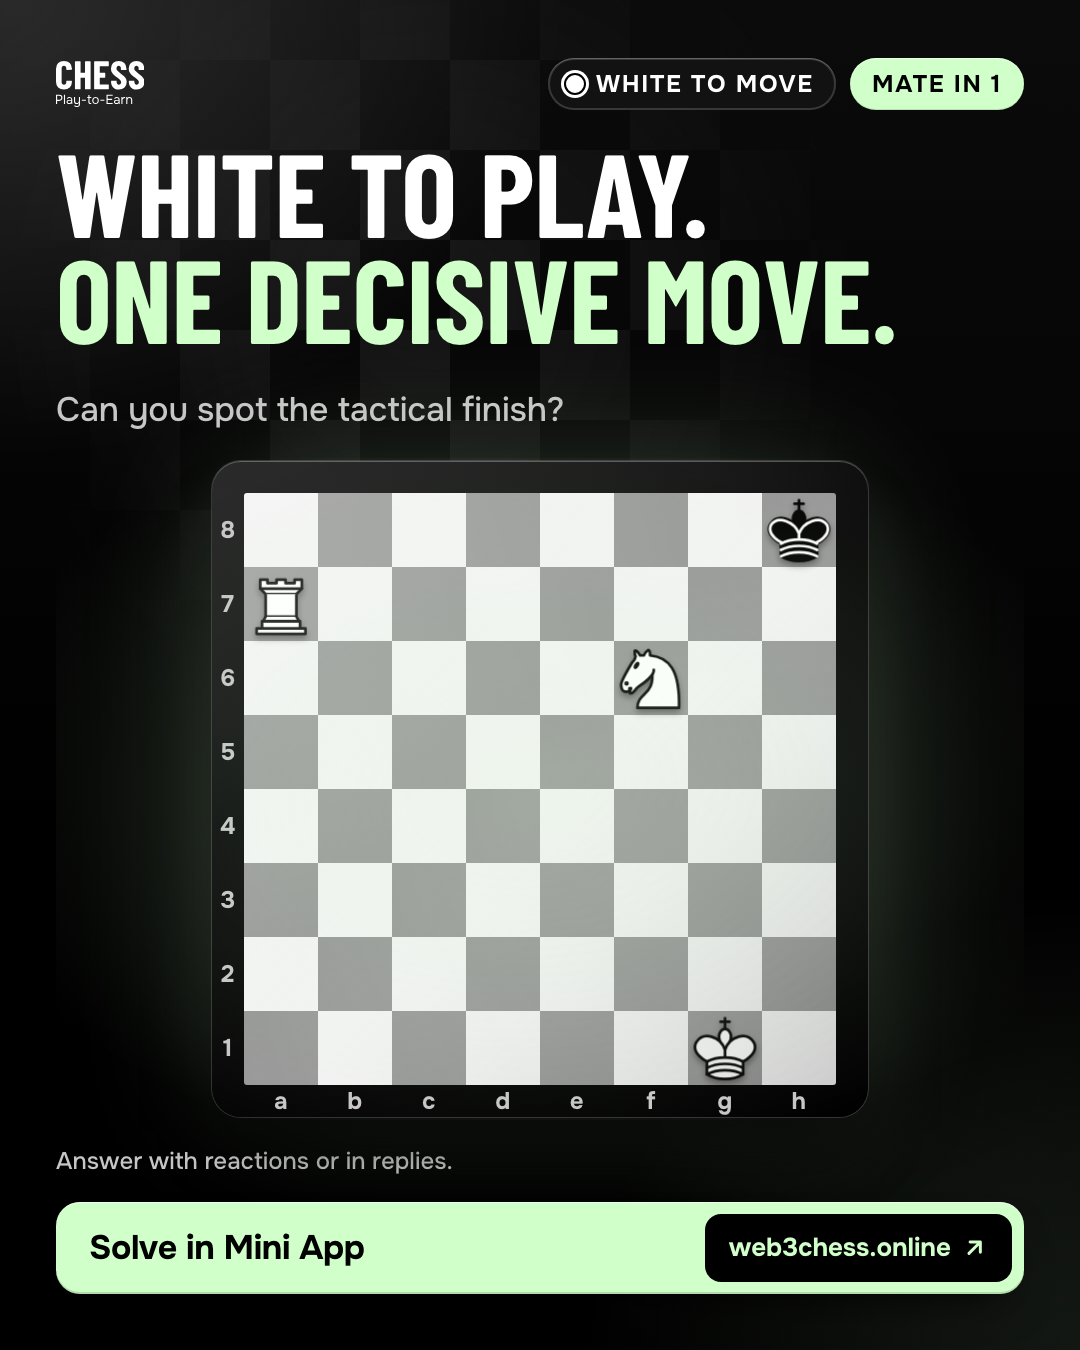
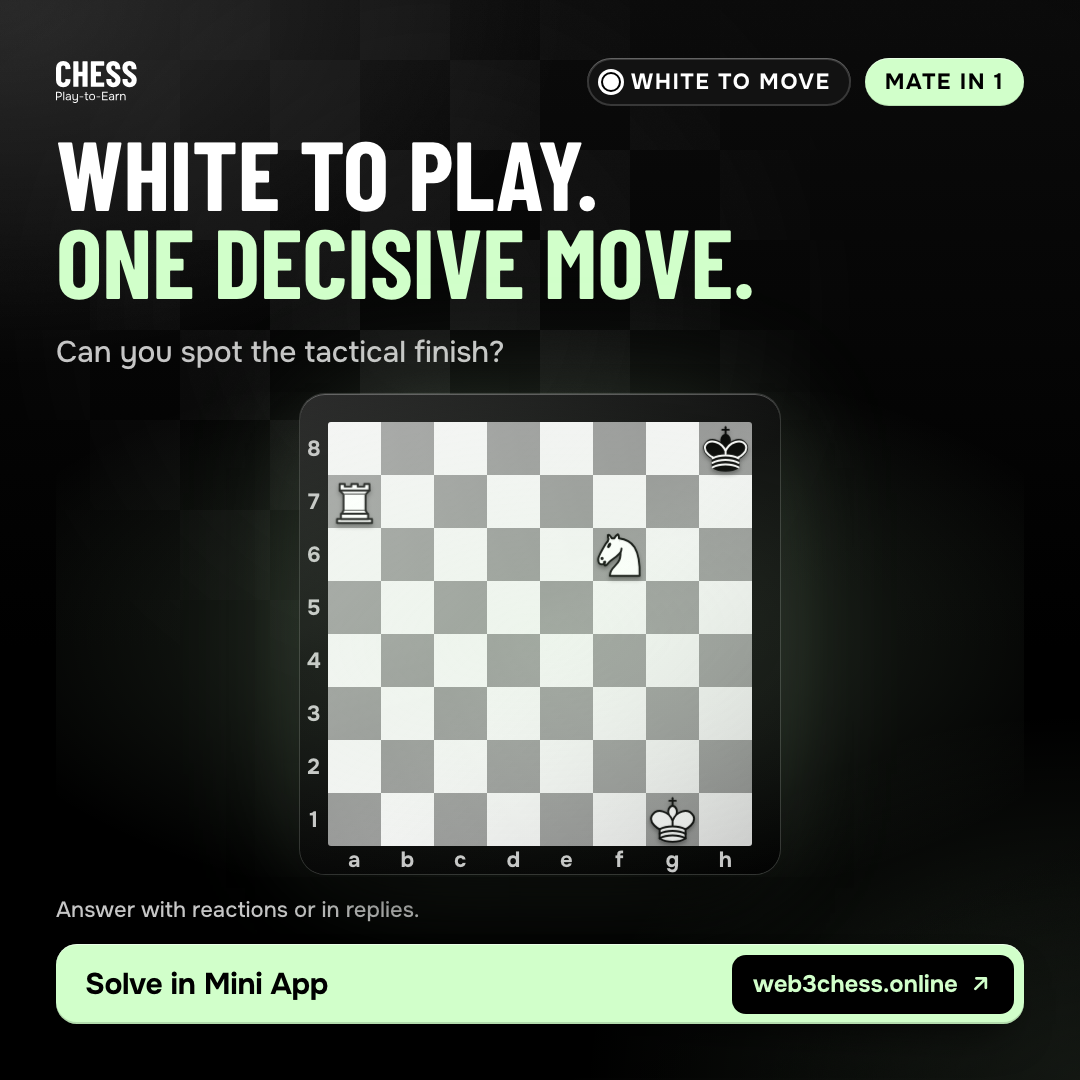
feat(graphics): enforce 1:1 square (1080x1080) and 16:9 canvas formats for Telegram posts
- Replace tall 4:5 portrait default with 1:1 square (1080x1080) and 16:9 wide (1280x720) presets
- Update rendering engine defaults in render.mjs and frame.mjs
- Re-render today's tactics and arena creatives to 1080x1080 1:1
- Update live Telegram posts #12 and #16 with 1:1 square media

Changed region(s): [[0.0306, 0.0306, 0.9472, 0.9778]]

diff --git a/marketing/content-ops/daily.py b/marketing/content-ops/daily.py
@@ -98,7 +98,7 @@ def cmd_decide(args):
 
 def cmd_render(args):
     for entry in queue.all_entries("telegram", day=_day(args).isoformat()):
-        if entry.get("creative") and entry["status"] in {"draft", "approved", "rejected"}:
+        if entry.get("creative") and entry["status"] in {"draft", "approved", "rejected", "published"}:
             renderer.render(entry); queue.save(entry)
             print(entry["id"], entry.get("render"))
 

diff --git a/VIRAL_FOMO_CONTENT_STRATEGY.md b/VIRAL_FOMO_CONTENT_STRATEGY.md
@@ -113,11 +113,11 @@ All broadcasts sync with global player traffic patterns and the 4 Daily Arena wi
 
 | Slot | Time (UTC) | Content Pillar | Format & Visual | Psychological Motive & Trigger |
 | :--- | :--- | :--- | :--- | :--- |
-| **S1** | **07:30** | **Tactics** | `puzzle` (1:1 portrait)<br>Threaded reveal at 14:30 | **Habit Formation & Curiosity**: Morning calculation quiz. 4 candidate moves with emoji reaction voting. |
+| **S1** | **07:30** | **Tactics** | `puzzle` (1:1 square: 1080×1080)<br>Threaded reveal at 14:30 | **Habit Formation & Curiosity**: Morning calculation quiz. 4 candidate moves with emoji reaction voting. |
 | **S2** | **11:00** | **Chess News** | `news` (1:1 or 16:9)<br>Number-first headline | **Timeliness & Authority**: Breaking FIDE/GM tournament drama with one practical tactical takeaway. |
-| **S3** | **14:30** | **Openings** | `trap` (carousel or 1:1)<br>Defensive sequence | **Mistake Relief**: "Survive the Trap" (Stafford, Englund, Fried Liver). Shows how to punish aggressive speed blitz gambits. |
-| **S4** | **17:30** | **Chess Culture** | `culture` (meme / quote)<br>Board graphic | **Spectator Thrill & Relatability**: Brutal 3-second scramble blunder breakdowns and relatable time-trouble humor. |
-| **S5** | **20:30** | **Product / Arena** | `product` / `rules`<br>Arena countdown card | **Peak FOMO & Conversion**: Synchronized Arena alert ($500 prize vault). Clear 18+ wager rules and 1-tap Mini App button. |
+| **S3** | **14:30** | **Openings** | `trap` (1:1 square)<br>Defensive sequence | **Mistake Relief**: "Survive the Trap" (Stafford, Englund, Fried Liver). Shows how to punish aggressive speed blitz gambits. |
+| **S4** | **17:30** | **Chess Culture** | `culture` (1:1 or 16:9)<br>Board graphic | **Spectator Thrill & Relatability**: Brutal 3-second scramble blunder breakdowns and relatable time-trouble humor. |
+| **S5** | **20:30** | **Product / Arena** | `product` (1:1 square or 16:9)<br>Arena countdown card | **Peak FOMO & Conversion**: Synchronized Arena alert ($500 prize vault). Clear 18+ wager rules and 1-tap Mini App button. |
 
 ### Landing Page Blog Sync (`web3chess.online/blog`)
 For every major tactical debate or opening guide, the Blog hosts the **authoritative long-form breakdown**:
